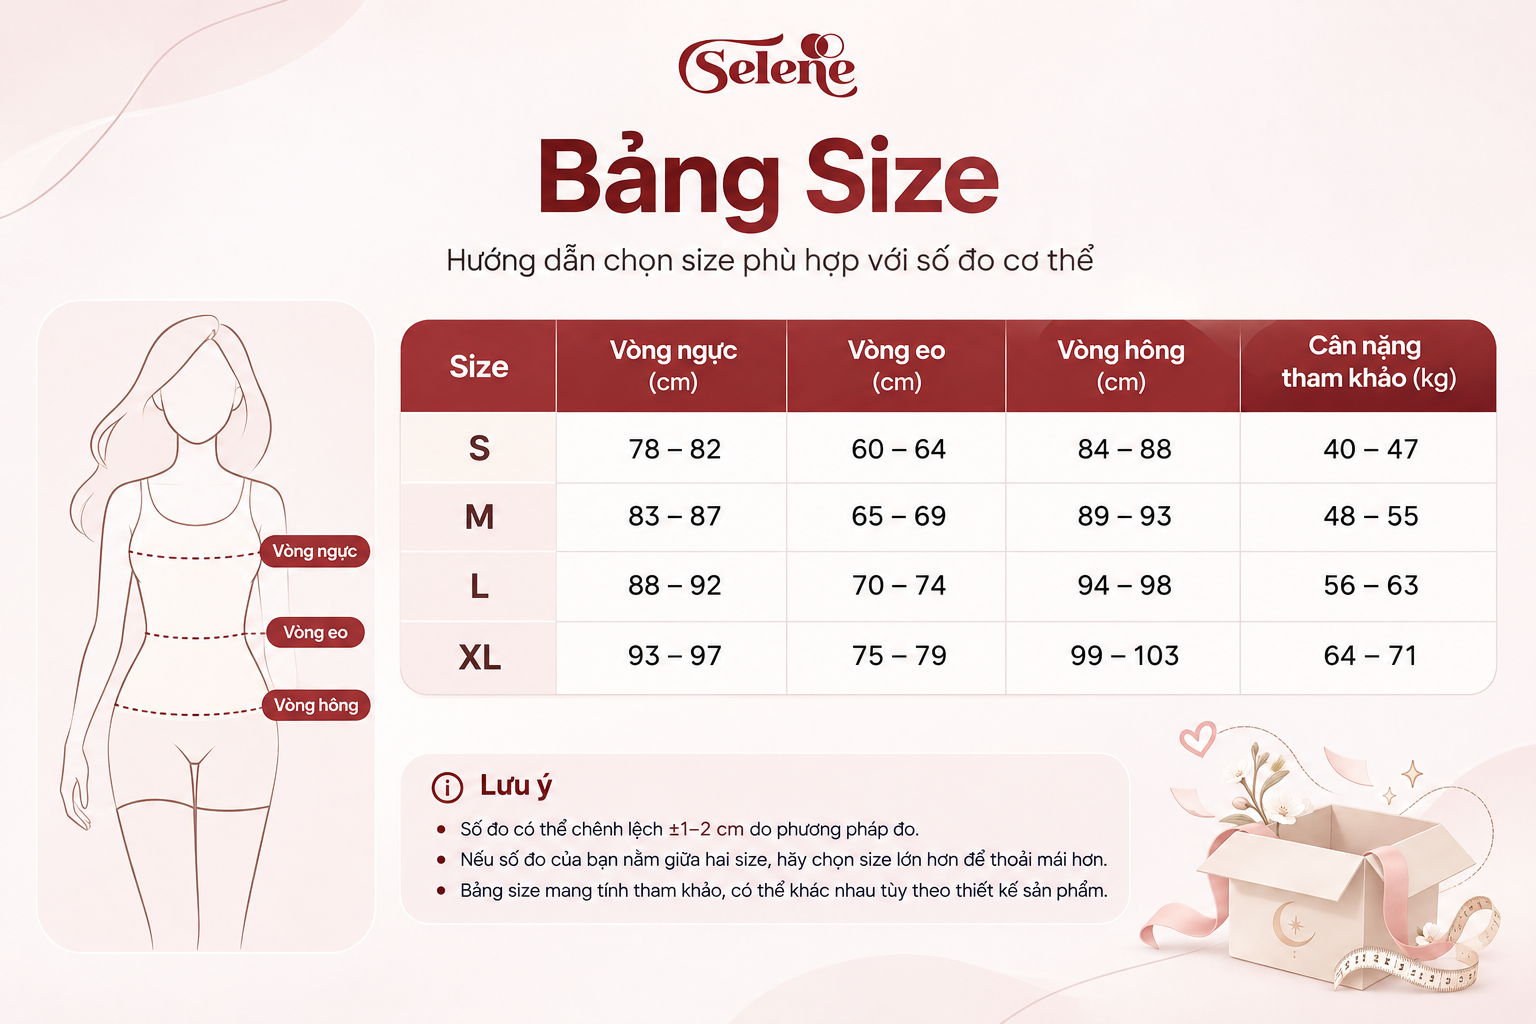
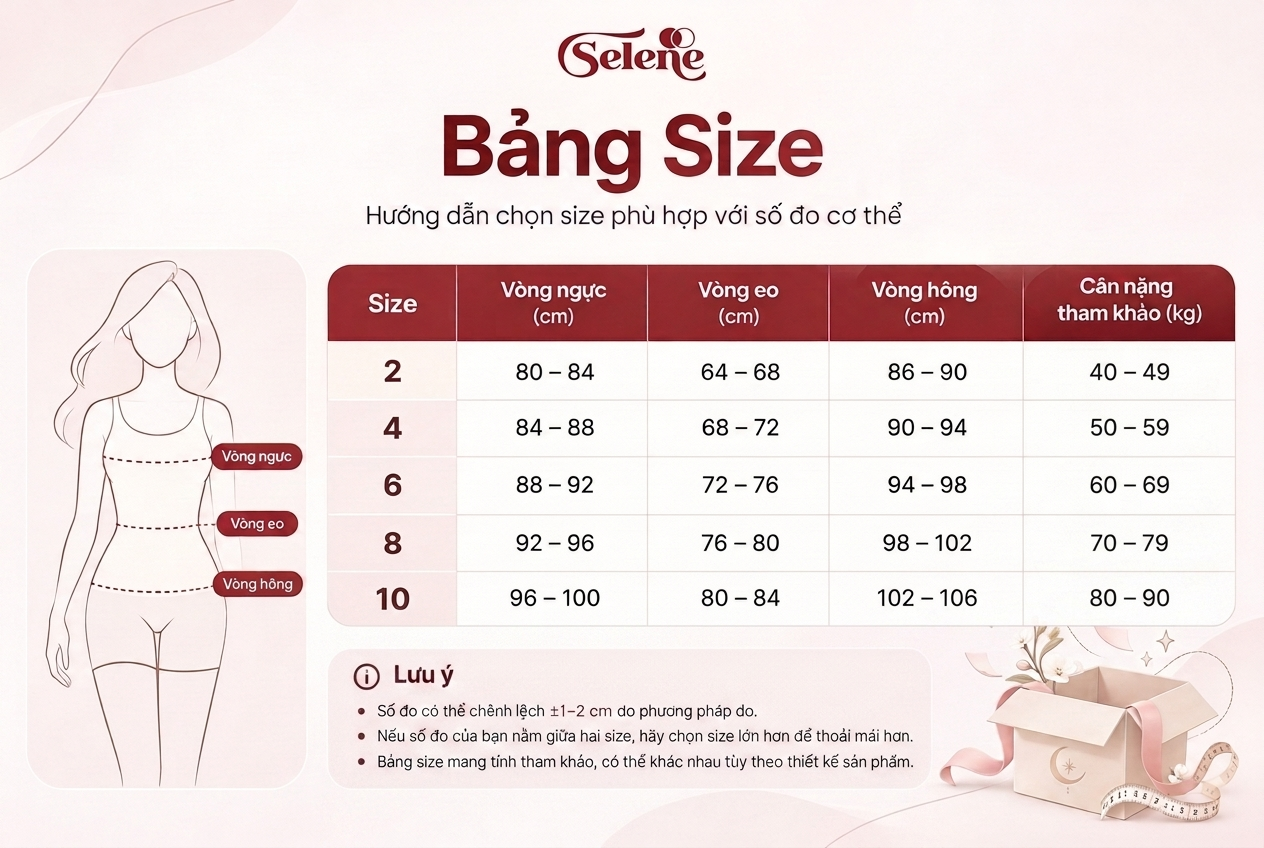
update size clothing

diff --git a/frontend/src/pages/ProductDetail/index.jsx b/frontend/src/pages/ProductDetail/index.jsx
@@ -16,6 +16,19 @@ import ImageModal from "./ImageModal";
 import { toast } from "react-toastify";
 import { isLoggedIn } from "../../utils/auth";
 
+const SIZE_ORDER = ["XXS", "XS", "S", "M", "L", "XL", "XXL", "2XL", "3XL", "4XL"];
+
+function compareSizes(a, b) {
+  const normA = String(a || "").trim().toUpperCase();
+  const normB = String(b || "").trim().toUpperCase();
+  const idxA = SIZE_ORDER.indexOf(normA);
+  const idxB = SIZE_ORDER.indexOf(normB);
+  if (idxA !== -1 && idxB !== -1) return idxA - idxB;
+  if (idxA !== -1) return -1;
+  if (idxB !== -1) return 1;
+  return String(a || "").localeCompare(String(b || ""), "vi", { numeric: true });
+}
+
 function fmt(n) {
   return n.toLocaleString("vi-VN") + "đ";
 }
@@ -117,7 +130,7 @@ function ProductDetailContent({ id }) {
       ).values(),
     ],
 
-    sizes: [...new Set((product.variants || []).map((v) => v.size))],
+    sizes: [...new Set((product.variants || []).map((v) => v.size))].sort(compareSizes),
 
     detail: {
       sku: product.product_id,

diff --git a/backend/ai-service/app/core/prompts.py b/backend/ai-service/app/core/prompts.py
@@ -15,6 +15,18 @@ Ví dụ:
 
 CHAT_SYSTEM_PROMPT = """Bạn là trợ lý tư vấn thời trang của cửa hàng Selene.
 Trả lời bằng tiếng Việt, thân thiện, ngắn gọn, tự nhiên, tối đa 1-2 emoji.
+
+Bảng size chuẩn của cửa hàng Selene (áp dụng tham khảo khi tư vấn chọn size theo số đo cơ thể hoặc cân nặng):
+- Size 2: Vòng ngực 80 – 84 cm | Vòng eo 64 – 68 cm | Vòng hông 86 – 90 cm | Cân nặng tham khảo 40 – 49 kg
+- Size 4: Vòng ngực 84 – 88 cm | Vòng eo 68 – 72 cm | Vòng hông 90 – 94 cm | Cân nặng tham khảo 50 – 59 kg
+- Size 6: Vòng ngực 88 – 92 cm | Vòng eo 72 – 76 cm | Vòng hông 94 – 98 cm | Cân nặng tham khảo 60 – 69 kg
+- Size 8: Vòng ngực 92 – 96 cm | Vòng eo 76 – 80 cm | Vòng hông 98 – 102 cm | Cân nặng tham khảo 70 – 79 kg
+- Size 10: Vòng ngực 96 – 100 cm | Vòng eo 80 – 84 cm | Vòng hông 102 – 106 cm | Cân nặng tham khảo 80 – 90 kg
+Lưu ý tư vấn size:
+- Số đo có thể chênh lệch ±1–2 cm do phương pháp đo hoặc tùy thiết kế sản phẩm.
+- Nếu số đo hoặc cân nặng của khách nằm giữa hai size, hãy khuyên chọn size lớn hơn để mặc thoải mái hơn.
+- Khi tư vấn size cho một sản phẩm cụ thể, LUÔN đối chiếu bảng size trên với danh sách `sizes` của sản phẩm đó trong `qdrant_results`; nếu size phù hợp không có trong `sizes` của sản phẩm, hãy thông báo rõ cho khách biết.
+
 Quy tắc giám sát ngữ cảnh hội thoại (RẤT QUAN TRỌNG):
 - Khi `conversation_intent` là "followup" hoặc có `active_products_in_conversation` (các sản phẩm đánh dấu `is_active_in_conversation: true`), khách hàng đang hỏi tiếp về chính sản phẩm đó. BẮT BUỘC trả lời trực diện về **sản phẩm đang tư vấn** trước tiên (dựa đúng vào size, cân nặng, màu sắc, mô tả của sản phẩm đó).
 - TUYỆT ĐỐI KHÔNG tự ý đổi sang sản phẩm khác rồi trả lời như thể khách đang hỏi sản phẩm mới.
